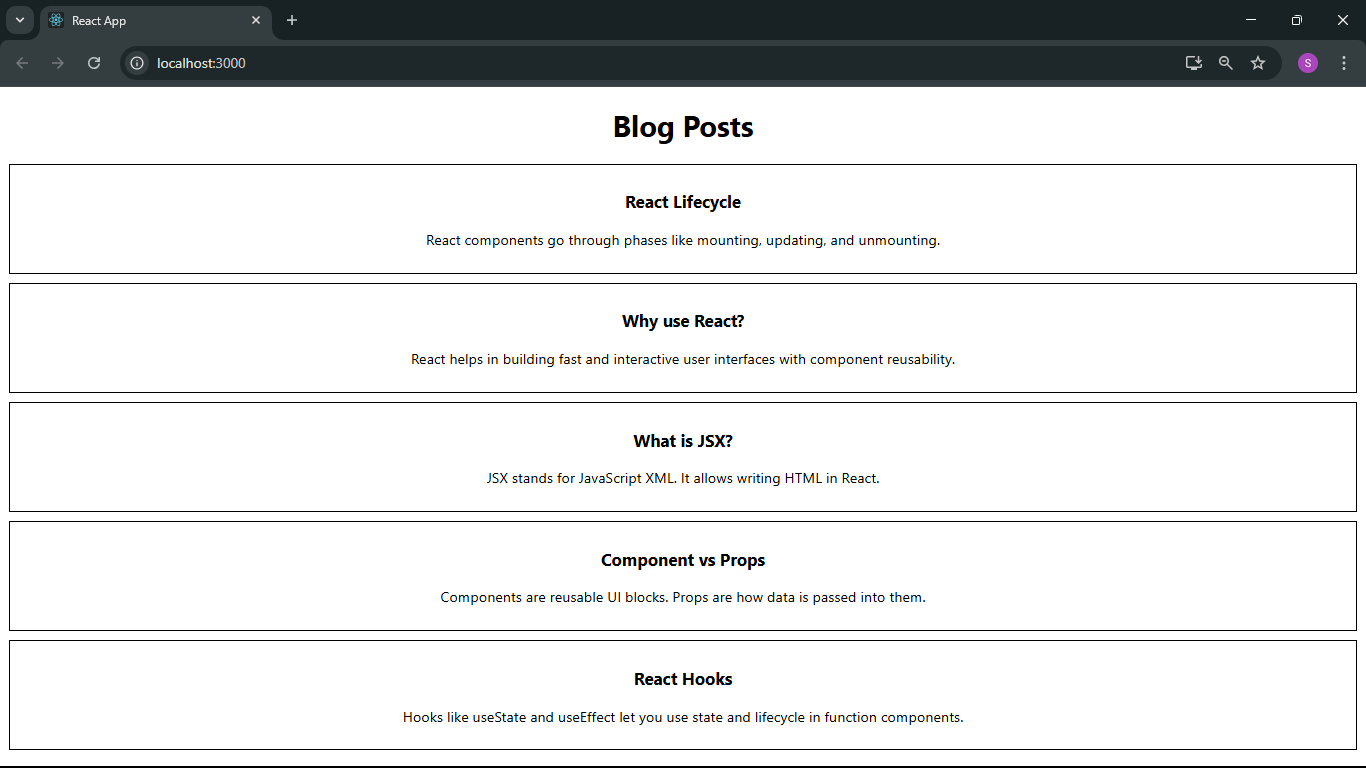
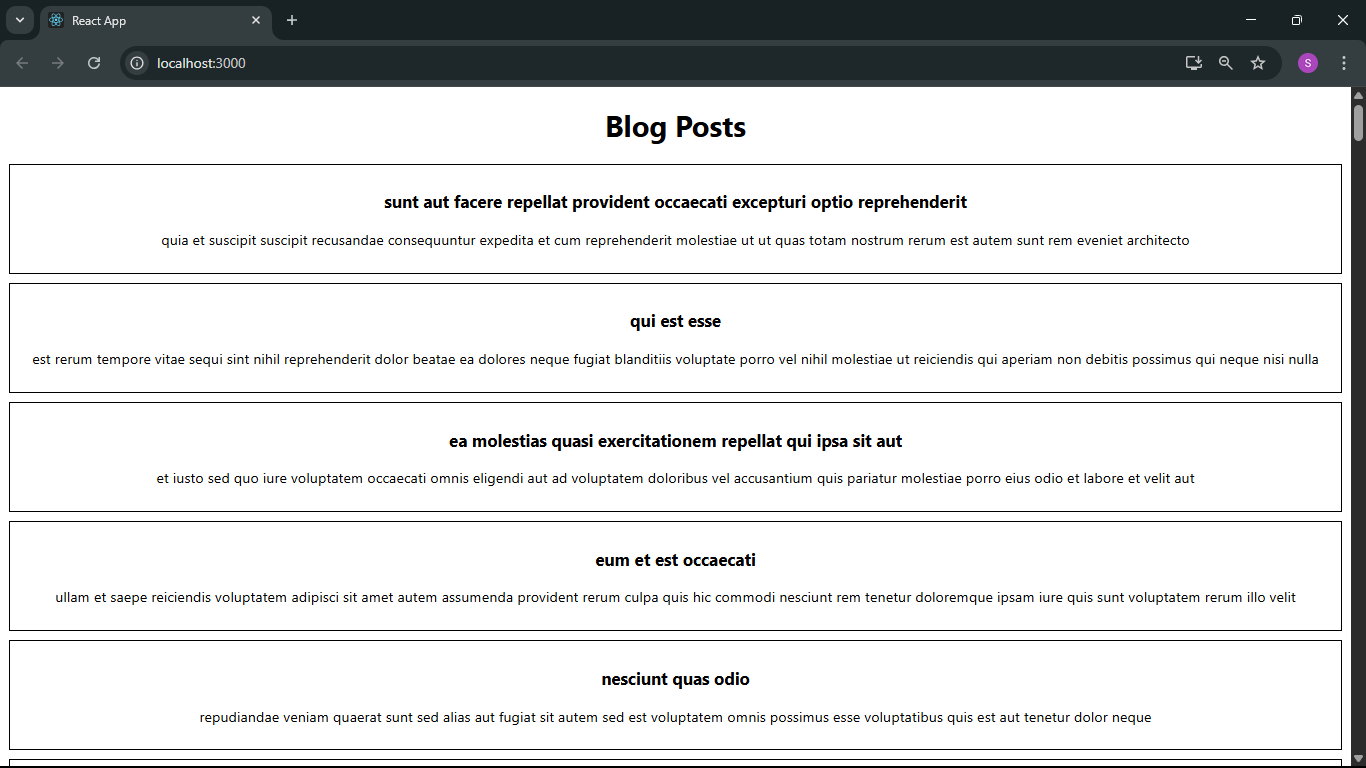
week-6 updated

diff --git a/Deepskilling/Week-6/blogapp/src/Posts.js b/Deepskilling/Week-6/blogapp/src/Posts.js
@@ -11,16 +11,14 @@ class Posts extends React.Component {
   }
 
   loadPosts = () => {
-    const data = [
-      { id: 1, title: 'React Lifecycle', body: 'React components go through phases like mounting, updating, and unmounting.' },
-      { id: 2, title: 'Why use React?', body: 'React helps in building fast and interactive user interfaces with component reusability.' },
-      { id: 3, title: 'What is JSX?', body: 'JSX stands for JavaScript XML. It allows writing HTML in React.' },
-      { id: 4, title: 'Component vs Props', body: 'Components are reusable UI blocks. Props are how data is passed into them.' },
-      { id: 5, title: 'React Hooks', body: 'Hooks like useState and useEffect let you use state and lifecycle in function components.' }
-    ];
-    this.setState({ posts: data });
+    fetch('https://jsonplaceholder.typicode.com/posts')
+      .then(response => response.json())
+      .then(data => this.setState({ posts: data }))
+      .catch(error => {
+        console.error('Error fetching posts:', error);
+        this.setState({ hasError: true });
+      });
   };
-
 
   componentDidMount() {
     this.loadPosts();
